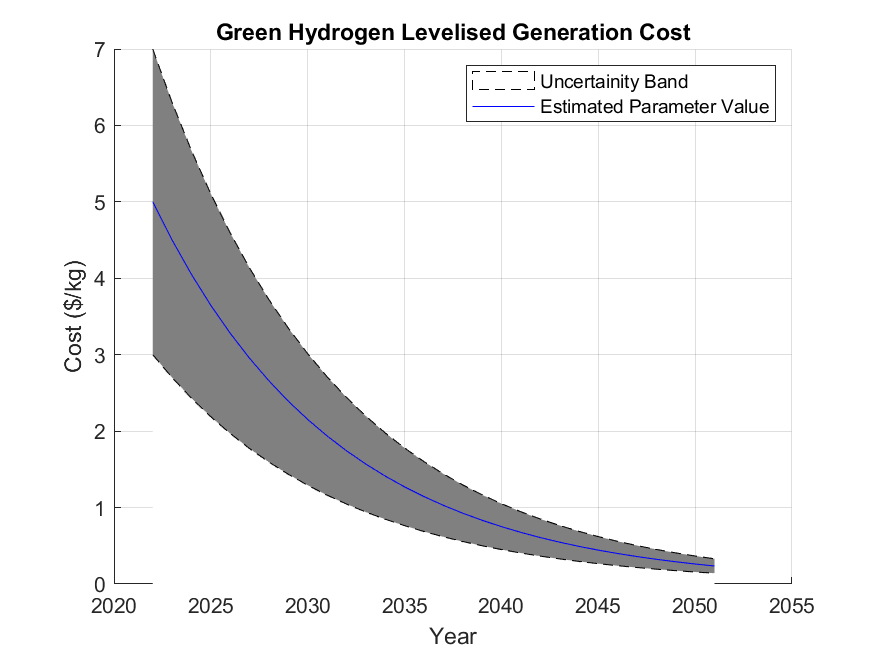
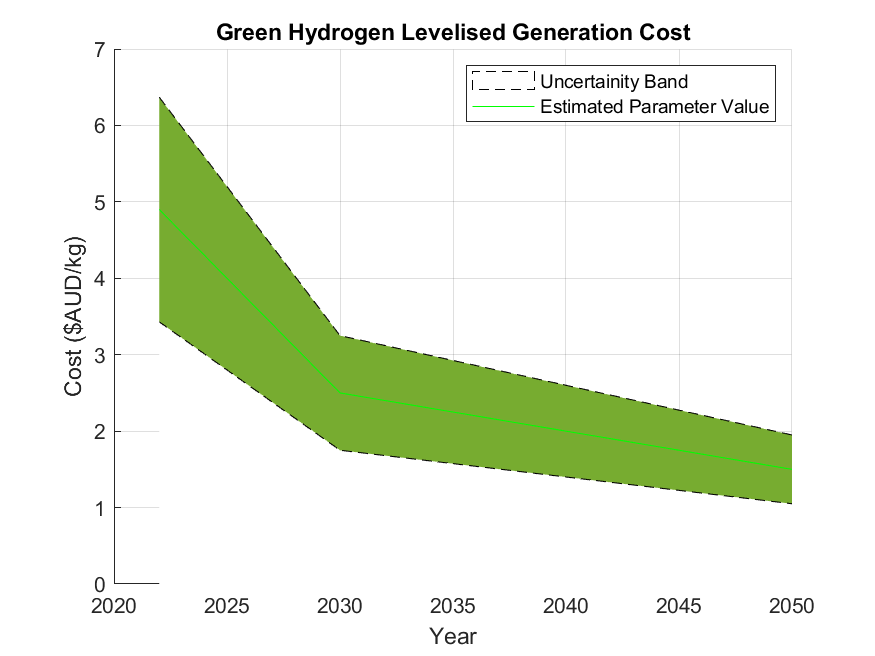
Updated graphs and constants (NOW IN COLOUR)

diff --git a/Software/constants.m b/Software/constants.m
@@ -15,7 +15,7 @@ Hydrogen.Constants.Liquid_Density = 0.07;
 %Define variable struct
 Template.CurrentValue = 1;
 Template.Uncertainity = 0.1;
-Template.Future_size = 30;
+Template.Future_size = 29;
 Template.Upper = zeros(Template.Future_size,1);
 Template.Future = zeros(Template.Future_size,1);
 Template.Lower = zeros(Template.Future_size,1);
@@ -34,43 +34,204 @@ Template.ylabel = 'Cost ($)';
 Template.Name = 'Template';
 
 %Hydrogen Generation Costs
+
+%GREEN HYDROGEN GENERATION COST
 Hydrogen.Generation.Green_Levelised_Cost = Template;
-Hydrogen.Generation.Green_Levelised_Cost.CurrentValue = 5.0
-Hydrogen.Generation.Green_Levelised_Cost.Uncertainity = 0.4;
+Hydrogen.Generation.Green_Levelised_Cost.CurrentValue = 4.9;
+Hydrogen.Generation.Green_Levelised_Cost.Uncertainity = 0.3;
 Hydrogen.Generation.Green_Levelised_Cost.Growth = 0.9;
-Hydrogen.Generation.Green_Levelised_Cost.Future(1) = Hydrogen.Generation.Green_Levelised_Cost.CurrentValue;
-Hydrogen.Generation.Green_Levelised_Cost.Lower(1) = Hydrogen.Generation.Green_Levelised_Cost.Future(1) * (1-Hydrogen.Generation.Green_Levelised_Cost.Uncertainity)
-Hydrogen.Generation.Green_Levelised_Cost.Upper(1) = Hydrogen.Generation.Green_Levelised_Cost.Future(1) * (1+Hydrogen.Generation.Green_Levelised_Cost.Uncertainity)
-for n = 2:Hydrogen.Generation.Green_Levelised_Cost.Future_size 
-    Hydrogen.Generation.Green_Levelised_Cost.Future(n) = Hydrogen.Generation.Green_Levelised_Cost.Future(n-1)* Hydrogen.Generation.Green_Levelised_Cost.Growth;
+Hydrogen.Generation.Green_Levelised_Cost.Future(1) = Hydrogen.Generation.Green_Levelised_Cost.CurrentValue; %2022
+Hydrogen.Generation.Green_Levelised_Cost.Future(2) = 4.6; %2023
+Hydrogen.Generation.Green_Levelised_Cost.Future(3) = 4.3; %2024
+Hydrogen.Generation.Green_Levelised_Cost.Future(4) = 4.0; %2025
+Hydrogen.Generation.Green_Levelised_Cost.Future(5) = 3.7; %2026
+Hydrogen.Generation.Green_Levelised_Cost.Future(6) = 3.4; %2027
+Hydrogen.Generation.Green_Levelised_Cost.Future(7) = 3.1; %2028
+Hydrogen.Generation.Green_Levelised_Cost.Future(8) = 2.8; %2029
+Hydrogen.Generation.Green_Levelised_Cost.Future(9) = 2.5; %2030
+Hydrogen.Generation.Green_Levelised_Cost.Future(10) = 2.45; %2031
+Hydrogen.Generation.Green_Levelised_Cost.Future(11) = 2.40; %2032
+Hydrogen.Generation.Green_Levelised_Cost.Future(12) = 2.35; %2033
+Hydrogen.Generation.Green_Levelised_Cost.Future(13) = 2.30; %2034
+Hydrogen.Generation.Green_Levelised_Cost.Future(14) = 2.25; %2035
+Hydrogen.Generation.Green_Levelised_Cost.Future(15) = 2.20; %2036
+Hydrogen.Generation.Green_Levelised_Cost.Future(16) = 2.15; %2037
+Hydrogen.Generation.Green_Levelised_Cost.Future(17) = 2.10; %2038
+Hydrogen.Generation.Green_Levelised_Cost.Future(18) = 2.05; %2039
+Hydrogen.Generation.Green_Levelised_Cost.Future(19) = 2.00; %2040
+Hydrogen.Generation.Green_Levelised_Cost.Future(20) = 1.95; %2041
+Hydrogen.Generation.Green_Levelised_Cost.Future(21) = 1.90; %2042
+Hydrogen.Generation.Green_Levelised_Cost.Future(22) = 1.85; %2043
+Hydrogen.Generation.Green_Levelised_Cost.Future(23) = 1.80; %2044
+Hydrogen.Generation.Green_Levelised_Cost.Future(24) = 1.75; %2045
+Hydrogen.Generation.Green_Levelised_Cost.Future(25) = 1.70; %2046
+Hydrogen.Generation.Green_Levelised_Cost.Future(26) = 1.65; %2047
+Hydrogen.Generation.Green_Levelised_Cost.Future(27) = 1.60; %2048
+Hydrogen.Generation.Green_Levelised_Cost.Future(28) = 1.55; %2049
+Hydrogen.Generation.Green_Levelised_Cost.Future(29) = 1.50; %2050
+for n = 1:Hydrogen.Generation.Green_Levelised_Cost.Future_size 
     Hydrogen.Generation.Green_Levelised_Cost.Lower(n) = Hydrogen.Generation.Green_Levelised_Cost.Future(n) * (1-Hydrogen.Generation.Green_Levelised_Cost.Uncertainity)
     Hydrogen.Generation.Green_Levelised_Cost.Upper(n) = Hydrogen.Generation.Green_Levelised_Cost.Future(n) * (1+Hydrogen.Generation.Green_Levelised_Cost.Uncertainity)
 end
-Hydrogen.Generation.Green_Levelised_Cost.Units = '$/kg';
+Hydrogen.Generation.Green_Levelised_Cost.Units = '$AUD/kg';
 Hydrogen.Generation.Green_Levelised_Cost.xlabel = 'Year';
-Hydrogen.Generation.Green_Levelised_Cost.ylabel = 'Cost ($/kg)';
+Hydrogen.Generation.Green_Levelised_Cost.ylabel = 'Cost ($AUD/kg)';
 Hydrogen.Generation.Green_Levelised_Cost.Name = 'Green Hydrogen Levelised Generation Cost';
 
-plot_parameter(Hydrogen.Generation.Green_Levelised_Cost);
+plot_parameter(Hydrogen.Generation.Green_Levelised_Cost,'#00FF00','#77AC30');
 
+%BLUE HYDROGEN GENERATION COST
 Hydrogen.Generation.Blue_Levelised_Cost = Template;
-Hydrogen.Generation.Blue_Levelised_Cost.CurrentValue = 3.0
-Hydrogen.Generation.Blue_Levelised_Cost.Uncertainity = 0.3;
-Hydrogen.Generation.Blue_Levelised_Cost.Growth = 0.95;
-Hydrogen.Generation.Blue_Levelised_Cost.Future(1) = Hydrogen.Generation.Blue_Levelised_Cost.CurrentValue * Hydrogen.Generation.Blue_Levelised_Cost.Growth;
+Hydrogen.Generation.Blue_Levelised_Cost.CurrentValue = 2.34;
+Hydrogen.Generation.Blue_Levelised_Cost.Uncertainity = 0.2;
+Hydrogen.Generation.Blue_Levelised_Cost.Growth1 = 0.08;
+Hydrogen.Generation.Blue_Levelised_Cost.Growth2 = 0.01;
+Hydrogen.Generation.Blue_Levelised_Cost.Future(1) = Hydrogen.Generation.Blue_Levelised_Cost.CurrentValue;
 Hydrogen.Generation.Blue_Levelised_Cost.Lower(1) = Hydrogen.Generation.Blue_Levelised_Cost.Future(1) * (1-Hydrogen.Generation.Blue_Levelised_Cost.Uncertainity)
 Hydrogen.Generation.Blue_Levelised_Cost.Upper(1) = Hydrogen.Generation.Blue_Levelised_Cost.Future(1) * (1+Hydrogen.Generation.Blue_Levelised_Cost.Uncertainity)
-for n = 2:Hydrogen.Generation.Blue_Levelised_Cost.Future_size 
-    Hydrogen.Generation.Blue_Levelised_Cost.Future(n) = Hydrogen.Generation.Blue_Levelised_Cost.Future(n-1)* Hydrogen.Generation.Blue_Levelised_Cost.Growth;
+for n = 2:8
+    Hydrogen.Generation.Blue_Levelised_Cost.Future(n) = Hydrogen.Generation.Blue_Levelised_Cost.Future(n-1) - Hydrogen.Generation.Blue_Levelised_Cost.Growth1;
+    Hydrogen.Generation.Blue_Levelised_Cost.Lower(n) = Hydrogen.Generation.Blue_Levelised_Cost.Future(n) * (1-Hydrogen.Generation.Blue_Levelised_Cost.Uncertainity)
+    Hydrogen.Generation.Blue_Levelised_Cost.Upper(n) = Hydrogen.Generation.Blue_Levelised_Cost.Future(n) * (1+Hydrogen.Generation.Blue_Levelised_Cost.Uncertainity)
+end
+for n = 9:Hydrogen.Generation.Blue_Levelised_Cost.Future_size 
+    Hydrogen.Generation.Blue_Levelised_Cost.Future(n) = Hydrogen.Generation.Blue_Levelised_Cost.Future(n-1) - Hydrogen.Generation.Blue_Levelised_Cost.Growth2;
     Hydrogen.Generation.Blue_Levelised_Cost.Lower(n) = Hydrogen.Generation.Blue_Levelised_Cost.Future(n) * (1-Hydrogen.Generation.Blue_Levelised_Cost.Uncertainity)
     Hydrogen.Generation.Blue_Levelised_Cost.Upper(n) = Hydrogen.Generation.Blue_Levelised_Cost.Future(n) * (1+Hydrogen.Generation.Blue_Levelised_Cost.Uncertainity)
 
 end
-Hydrogen.Generation.Blue_Levelised_Cost.Units = '$/kg';
+Hydrogen.Generation.Blue_Levelised_Cost.Units = '$AUD/kg';
 Hydrogen.Generation.Blue_Levelised_Cost.xlabel = 'Year';
-Hydrogen.Generation.Blue_Levelised_Cost.ylabel = 'Cost ($/kg)';
-Hydrogen.Generation.Blue_Levelised_Cost.Name = 'Blue Hydrogen Levelised Generation Cost';
-plot_parameter(Hydrogen.Generation.Blue_Levelised_Cost);
+Hydrogen.Generation.Blue_Levelised_Cost.ylabel = 'Cost ($AUD/kg)';
+Hydrogen.Generation.Blue_Levelised_Cost.Name = 'Blue Hydrogen Levelised Generation Cost (No Carbon Cost)';
+plot_parameter(Hydrogen.Generation.Blue_Levelised_Cost,'#0000FF','#4DBEEE');
+
+%GREY HYDROGEN GENERATION COST
+Hydrogen.Generation.Grey_Levelised_Cost = Template;
+Hydrogen.Generation.Grey_Levelised_Cost.CurrentValue = 1.5
+Hydrogen.Generation.Grey_Levelised_Cost.Uncertainity = 0.1;
+Hydrogen.Generation.Grey_Levelised_Cost.Growth = 1.0;
+Hydrogen.Generation.Grey_Levelised_Cost.Future(1) = Hydrogen.Generation.Grey_Levelised_Cost.CurrentValue;
+Hydrogen.Generation.Grey_Levelised_Cost.Lower(1) = Hydrogen.Generation.Grey_Levelised_Cost.Future(1) * (1-Hydrogen.Generation.Grey_Levelised_Cost.Uncertainity)
+Hydrogen.Generation.Grey_Levelised_Cost.Upper(1) = Hydrogen.Generation.Grey_Levelised_Cost.Future(1) * (1+Hydrogen.Generation.Grey_Levelised_Cost.Uncertainity)
+for n = 2:Hydrogen.Generation.Grey_Levelised_Cost.Future_size 
+    Hydrogen.Generation.Grey_Levelised_Cost.Future(n) = Hydrogen.Generation.Grey_Levelised_Cost.Future(n-1)* Hydrogen.Generation.Grey_Levelised_Cost.Growth;
+    Hydrogen.Generation.Grey_Levelised_Cost.Lower(n) = Hydrogen.Generation.Grey_Levelised_Cost.Future(n) * (1-Hydrogen.Generation.Grey_Levelised_Cost.Uncertainity)
+    Hydrogen.Generation.Grey_Levelised_Cost.Upper(n) = Hydrogen.Generation.Grey_Levelised_Cost.Future(n) * (1+Hydrogen.Generation.Grey_Levelised_Cost.Uncertainity)
+
+end
+Hydrogen.Generation.Grey_Levelised_Cost.Units = '$AUD/kg';
+Hydrogen.Generation.Grey_Levelised_Cost.xlabel = 'Year';
+Hydrogen.Generation.Grey_Levelised_Cost.ylabel = 'Cost ($AUD/kg)';
+Hydrogen.Generation.Grey_Levelised_Cost.Name = 'Grey Hydrogen Levelised Generation Cost (No Carbon Cost)';
+plot_parameter(Hydrogen.Generation.Grey_Levelised_Cost,'#000000','#808080');
+
+% CARBON PRICE
+Hydrogen.Economic.Carbon_Price = Template;
+Hydrogen.Economic.Carbon_Price.CurrentValue = 25
+Hydrogen.Economic.Carbon_Price.Uncertainity = 0.5;
+Hydrogen.Economic.Carbon_Price.Growth1 = 3.125;
+Hydrogen.Economic.Carbon_Price.Growth2 = 10.0;
+Hydrogen.Economic.Carbon_Price.Growth3 = 15.0;
+Hydrogen.Economic.Carbon_Price.Future(1) = Hydrogen.Economic.Carbon_Price.CurrentValue;
+Hydrogen.Economic.Carbon_Price.Lower(1) = Hydrogen.Economic.Carbon_Price.Future(1) * (1-Hydrogen.Economic.Carbon_Price.Uncertainity)
+Hydrogen.Economic.Carbon_Price.Upper(1) = Hydrogen.Economic.Carbon_Price.Future(1) * (1+Hydrogen.Economic.Carbon_Price.Uncertainity)
+for n = 2:9
+    Hydrogen.Economic.Carbon_Price.Future(n) = Hydrogen.Economic.Carbon_Price.Future(n-1) + Hydrogen.Economic.Carbon_Price.Growth1;
+    Hydrogen.Economic.Carbon_Price.Lower(n) = Hydrogen.Economic.Carbon_Price.Future(n) * (1-Hydrogen.Economic.Carbon_Price.Uncertainity)
+    Hydrogen.Economic.Carbon_Price.Upper(n) = Hydrogen.Economic.Carbon_Price.Future(n) * (1+Hydrogen.Economic.Carbon_Price.Uncertainity)
+end
+for n = 10:19
+    Hydrogen.Economic.Carbon_Price.Future(n) = Hydrogen.Economic.Carbon_Price.Future(n-1) + Hydrogen.Economic.Carbon_Price.Growth2;
+    Hydrogen.Economic.Carbon_Price.Lower(n) = Hydrogen.Economic.Carbon_Price.Future(n) * (1-Hydrogen.Economic.Carbon_Price.Uncertainity)
+    Hydrogen.Economic.Carbon_Price.Upper(n) = Hydrogen.Economic.Carbon_Price.Future(n) * (1+Hydrogen.Economic.Carbon_Price.Uncertainity)
+end
+for n = 20:Hydrogen.Economic.Carbon_Price.Future_size 
+    Hydrogen.Economic.Carbon_Price.Future(n) = Hydrogen.Economic.Carbon_Price.Future(n-1) + Hydrogen.Economic.Carbon_Price.Growth3;
+    Hydrogen.Economic.Carbon_Price.Lower(n) = Hydrogen.Economic.Carbon_Price.Future(n) * (1-Hydrogen.Economic.Carbon_Price.Uncertainity)
+    Hydrogen.Economic.Carbon_Price.Upper(n) = Hydrogen.Economic.Carbon_Price.Future(n) * (1+Hydrogen.Economic.Carbon_Price.Uncertainity)
+end
+Hydrogen.Economic.Carbon_Price.Units = '$/kg';
+Hydrogen.Economic.Carbon_Price.xlabel = 'Year';
+Hydrogen.Economic.Carbon_Price.ylabel = 'Cost ($AUD/tonne CO2)';
+Hydrogen.Economic.Carbon_Price.Name = 'Standardised World Carbon Price';
+plot_parameter(Hydrogen.Economic.Carbon_Price,'#000000','#808080');
+
+% GAS PRICE
+Hydrogen.Economic.Gas_Price = Template;
+Hydrogen.Economic.Gas_Price.CurrentValue = 4.7
+Hydrogen.Economic.Gas_Price.Uncertainity = 0.5;
+Hydrogen.Economic.Gas_Price.Growth = 0.0;
+Hydrogen.Economic.Gas_Price.Future(1) = Hydrogen.Economic.Gas_Price.CurrentValue;
+Hydrogen.Economic.Gas_Price.Lower(1) = Hydrogen.Economic.Gas_Price.Future(1) * (1-Hydrogen.Economic.Gas_Price.Uncertainity)
+Hydrogen.Economic.Gas_Price.Upper(1) = Hydrogen.Economic.Gas_Price.Future(1) * (1+Hydrogen.Economic.Gas_Price.Uncertainity)
+for n = 2:Hydrogen.Economic.Gas_Price.Future_size 
+    Hydrogen.Economic.Gas_Price.Future(n) = Hydrogen.Economic.Gas_Price.Future(n-1) + Hydrogen.Economic.Gas_Price.Growth;
+    Hydrogen.Economic.Gas_Price.Lower(n) = Hydrogen.Economic.Gas_Price.Future(n) * (1-Hydrogen.Economic.Gas_Price.Uncertainity)
+    Hydrogen.Economic.Gas_Price.Upper(n) = Hydrogen.Economic.Gas_Price.Future(n) * (1+Hydrogen.Economic.Gas_Price.Uncertainity)
+end
+Hydrogen.Economic.Gas_Price.Units = '$AUD/MMBTU';
+Hydrogen.Economic.Gas_Price.xlabel = 'Year';
+Hydrogen.Economic.Gas_Price.ylabel = 'Cost ($AUD/MMBTU)';
+Hydrogen.Economic.Gas_Price.Name = 'Gas Price';
+plot_parameter(Hydrogen.Economic.Gas_Price,'#000000','#808080');
+
+% CARBON PRICE
+Hydrogen.Economic.Electricity_Price = Template;
+Hydrogen.Economic.Electricity_Price.CurrentValue = 66.3
+Hydrogen.Economic.Electricity_Price.Uncertainity = 0.4;
+Hydrogen.Economic.Electricity_Price.Growth1 = -3.6;
+Hydrogen.Economic.Electricity_Price.Growth2 = -0.675;
+Hydrogen.Economic.Electricity_Price.Future(1) = Hydrogen.Economic.Electricity_Price.CurrentValue;
+Hydrogen.Economic.Electricity_Price.Lower(1) = Hydrogen.Economic.Electricity_Price.Future(1) * (1-Hydrogen.Economic.Electricity_Price.Uncertainity)
+Hydrogen.Economic.Electricity_Price.Upper(1) = Hydrogen.Economic.Electricity_Price.Future(1) * (1+Hydrogen.Economic.Electricity_Price.Uncertainity)
+for n = 2:9
+    Hydrogen.Economic.Electricity_Price.Future(n) = Hydrogen.Economic.Electricity_Price.Future(n-1) + Hydrogen.Economic.Electricity_Price.Growth1;
+    Hydrogen.Economic.Electricity_Price.Lower(n) = Hydrogen.Economic.Electricity_Price.Future(n) * (1-Hydrogen.Economic.Electricity_Price.Uncertainity)
+    Hydrogen.Economic.Electricity_Price.Upper(n) = Hydrogen.Economic.Electricity_Price.Future(n) * (1+Hydrogen.Economic.Electricity_Price.Uncertainity)
+end
+for n = 10:Hydrogen.Economic.Electricity_Price.Future_size 
+    Hydrogen.Economic.Electricity_Price.Future(n) = Hydrogen.Economic.Electricity_Price.Future(n-1) + Hydrogen.Economic.Electricity_Price.Growth2;
+    Hydrogen.Economic.Electricity_Price.Lower(n) = Hydrogen.Economic.Electricity_Price.Future(n) * (1-Hydrogen.Economic.Electricity_Price.Uncertainity)
+    Hydrogen.Economic.Electricity_Price.Upper(n) = Hydrogen.Economic.Electricity_Price.Future(n) * (1+Hydrogen.Economic.Electricity_Price.Uncertainity)
+end
+Hydrogen.Economic.Electricity_Price.Units = '$AUD/MWhr';
+Hydrogen.Economic.Electricity_Price.xlabel = 'Year';
+Hydrogen.Economic.Electricity_Price.ylabel = 'Cost ($AUD/MWhr)';
+Hydrogen.Economic.Electricity_Price.Name = 'Electricty Price';
+plot_parameter(Hydrogen.Economic.Electricity_Price,'#00FF00','#77AC30');
+
+%GLOBAL HYDROGEN DEMAND
+Hydrogen.Consumption.Global_Demand = Template;
+Hydrogen.Consumption.Global_Demand.CurrentValue = 90;
+Hydrogen.Consumption.Global_Demand.Uncertainity = 0.5;
+Hydrogen.Consumption.Global_Demand.Growth1 = 5.0;
+Hydrogen.Consumption.Global_Demand.Growth2 = 8.0;
+Hydrogen.Consumption.Global_Demand.Growth3 = 10.0;
+Hydrogen.Consumption.Global_Demand.Future(1) = Hydrogen.Consumption.Global_Demand.CurrentValue;
+Hydrogen.Consumption.Global_Demand.Lower(1) = Hydrogen.Consumption.Global_Demand.Future(1) * (1-Hydrogen.Consumption.Global_Demand.Uncertainity)
+Hydrogen.Consumption.Global_Demand.Upper(1) = Hydrogen.Consumption.Global_Demand.Future(1) * (1+Hydrogen.Consumption.Global_Demand.Uncertainity)
+for n = 2:4 
+    Hydrogen.Consumption.Global_Demand.Future(n) = Hydrogen.Consumption.Global_Demand.Future(n-1) + Hydrogen.Consumption.Global_Demand.Growth1;
+    Hydrogen.Consumption.Global_Demand.Lower(n) = Hydrogen.Consumption.Global_Demand.Future(n) * (1-Hydrogen.Consumption.Global_Demand.Uncertainity)
+    Hydrogen.Consumption.Global_Demand.Upper(n) = Hydrogen.Consumption.Global_Demand.Future(n) * (1+Hydrogen.Consumption.Global_Demand.Uncertainity)
+end
+for n = 5:9
+    Hydrogen.Consumption.Global_Demand.Future(n) = Hydrogen.Consumption.Global_Demand.Future(n-1) + Hydrogen.Consumption.Global_Demand.Growth2;
+    Hydrogen.Consumption.Global_Demand.Lower(n) = Hydrogen.Consumption.Global_Demand.Future(n) * (1-Hydrogen.Consumption.Global_Demand.Uncertainity)
+    Hydrogen.Consumption.Global_Demand.Upper(n) = Hydrogen.Consumption.Global_Demand.Future(n) * (1+Hydrogen.Consumption.Global_Demand.Uncertainity)
+end
+for n = 10:Hydrogen.Consumption.Global_Demand.Future_size 
+    Hydrogen.Consumption.Global_Demand.Future(n) = Hydrogen.Consumption.Global_Demand.Future(n-1) + Hydrogen.Consumption.Global_Demand.Growth3;
+    Hydrogen.Consumption.Global_Demand.Lower(n) = Hydrogen.Consumption.Global_Demand.Future(n) * (1-Hydrogen.Consumption.Global_Demand.Uncertainity)
+    Hydrogen.Consumption.Global_Demand.Upper(n) = Hydrogen.Consumption.Global_Demand.Future(n) * (1+Hydrogen.Consumption.Global_Demand.Uncertainity)
+end
+Hydrogen.Consumption.Global_Demand.Units = 'Mt';
+Hydrogen.Consumption.Global_Demand.xlabel = 'Year';
+Hydrogen.Consumption.Global_Demand.ylabel = 'Demand (Mt)';
+Hydrogen.Consumption.Global_Demand.Name = 'Gloabal Hydrogen Demand';
+plot_parameter(Hydrogen.Consumption.Global_Demand,'#FF0000','#A2142F');
 
 %Test
+close all;
 save("constants.mat","Hydrogen");

diff --git a/Software/plot_parameter.m b/Software/plot_parameter.m
@@ -1,13 +1,13 @@
-function plot_parameter(parameter)
+function plot_parameter(parameter, line_colour, shade_colour)
 
     close all;
     fig = figure;
     
     x = 2022:2022+parameter.Future_size-1;
     hold on
-    area(x,parameter.Upper,'FaceColor',[0.5 0.5 0.5],'LineStyle','--')
+    area(x,parameter.Upper,'FaceColor',shade_colour,'LineStyle','--')
     area(x,parameter.Lower,'FaceColor','w','LineStyle','--')
-    plot(x,parameter.Future,'Color','b');
+    plot(x,parameter.Future,'Color',line_colour);
     hold off
     legend({'','Uncertainity Band','Estimated Parameter Value'})
     xlabel(parameter.xlabel)
